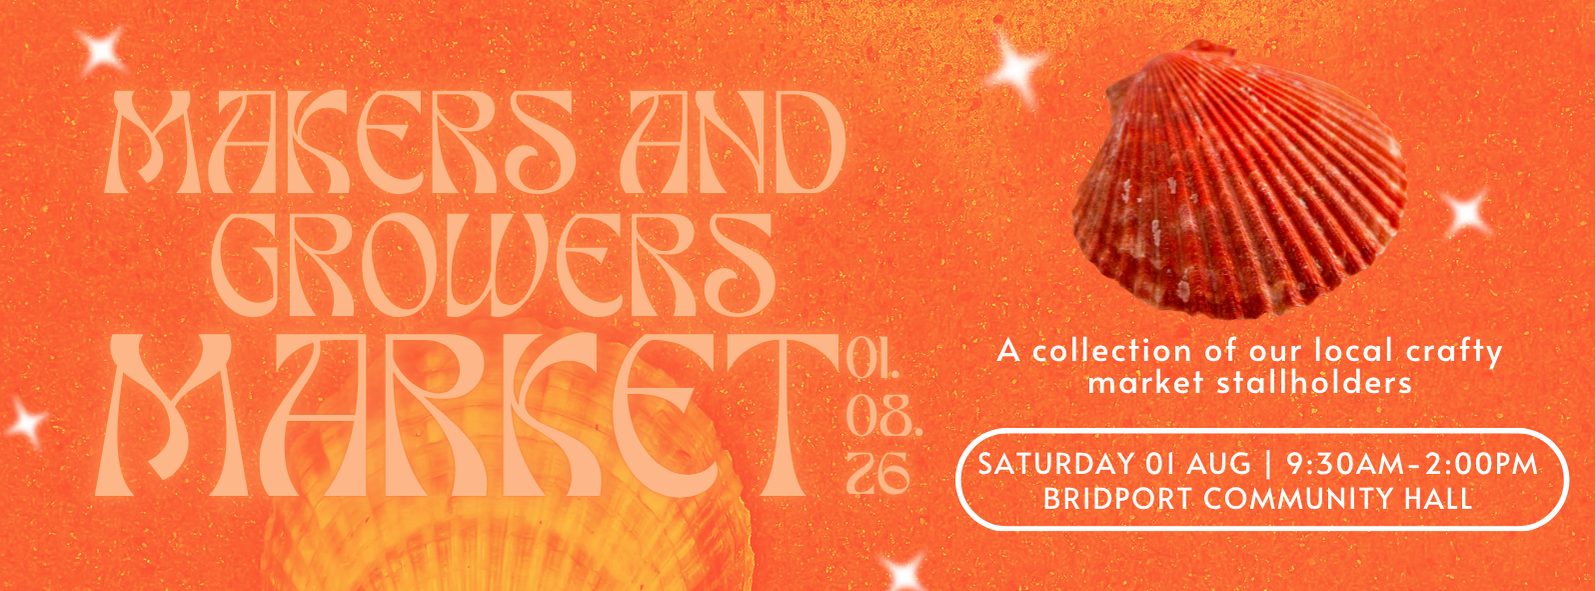
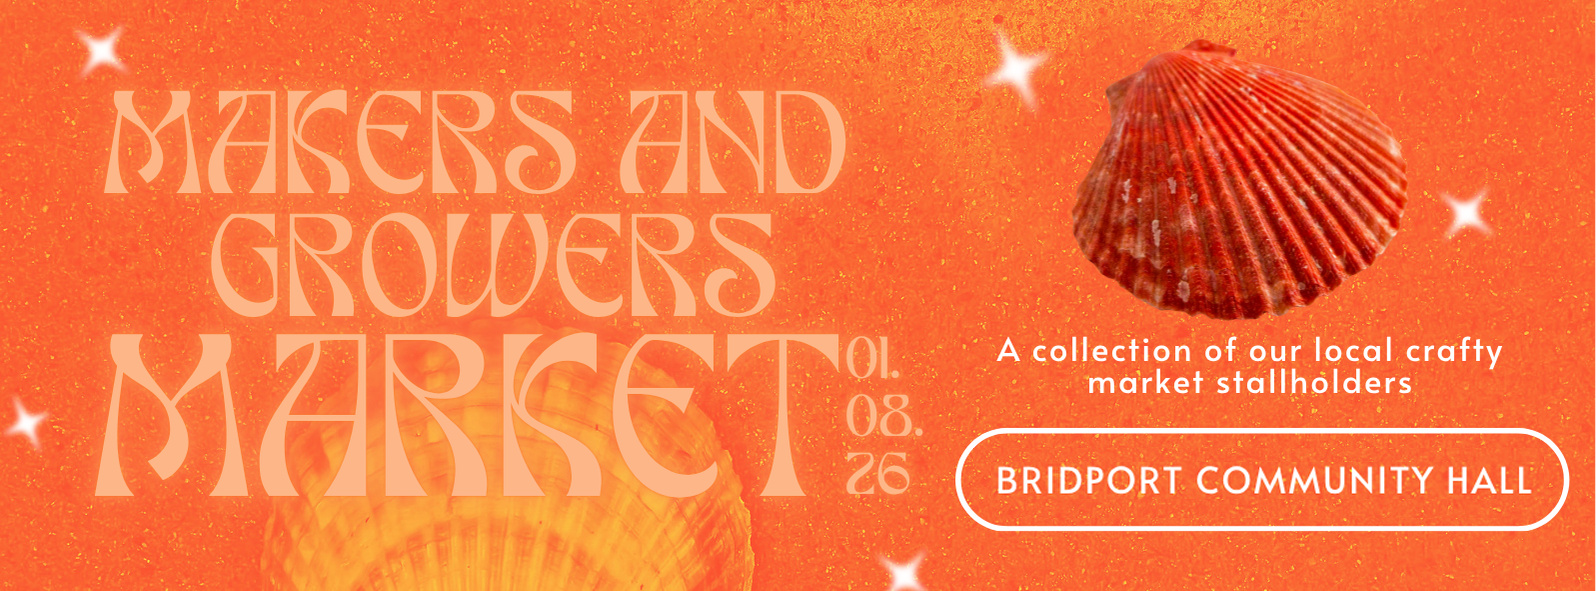
Correct bridport

Changed region(s): [[0.614, 0.7614, 0.9825, 0.8832]]

diff --git a/index.html b/index.html
@@ -245,9 +245,9 @@
 
 <div class="my-10 flex flex-col items-center mx-auto md:max-w-2xl">
     
-    <!--<div class="my-1 flex flex-col items-center">
+    <div class="my-1 flex flex-col items-center">
 
-        <a href="https://www.facebook.com/photo/?fbid=1670133684628009&set=pb.100048941810184.-2207520000" target="_blank" rel="noopener noreferrer" class="text-lime-950 hover:text-amber-500 font-medium underline transition duration-150"><img 
+        <!--<a href="https://www.facebook.com/photo/?fbid=1670133684628009&set=pb.100048941810184.-2207520000" target="_blank" rel="noopener noreferrer" class="text-lime-950 hover:text-amber-500 font-medium underline transition duration-150">--><img 
             src="markets/bridport26.png"
             alt="Tassie Scallop Fiesta" 
             
@@ -256,7 +256,7 @@
             onerror="this.onerror=null; this.src='https://placehold.co/192x64/cccccc/333333?text=Fallback+Logo';"
         /></a>
         
-    </div>--> 
+    </div>
 </div>
 
 <!-------------------------------End Special Events------------------------------------->
